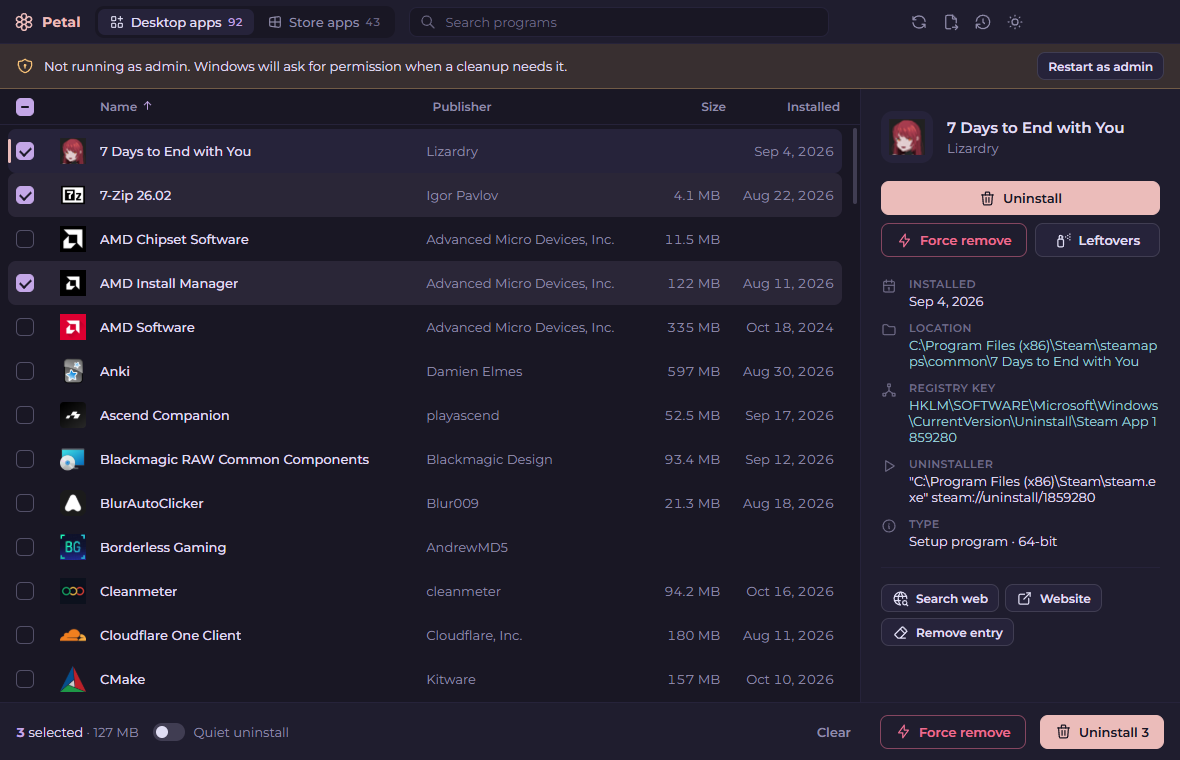
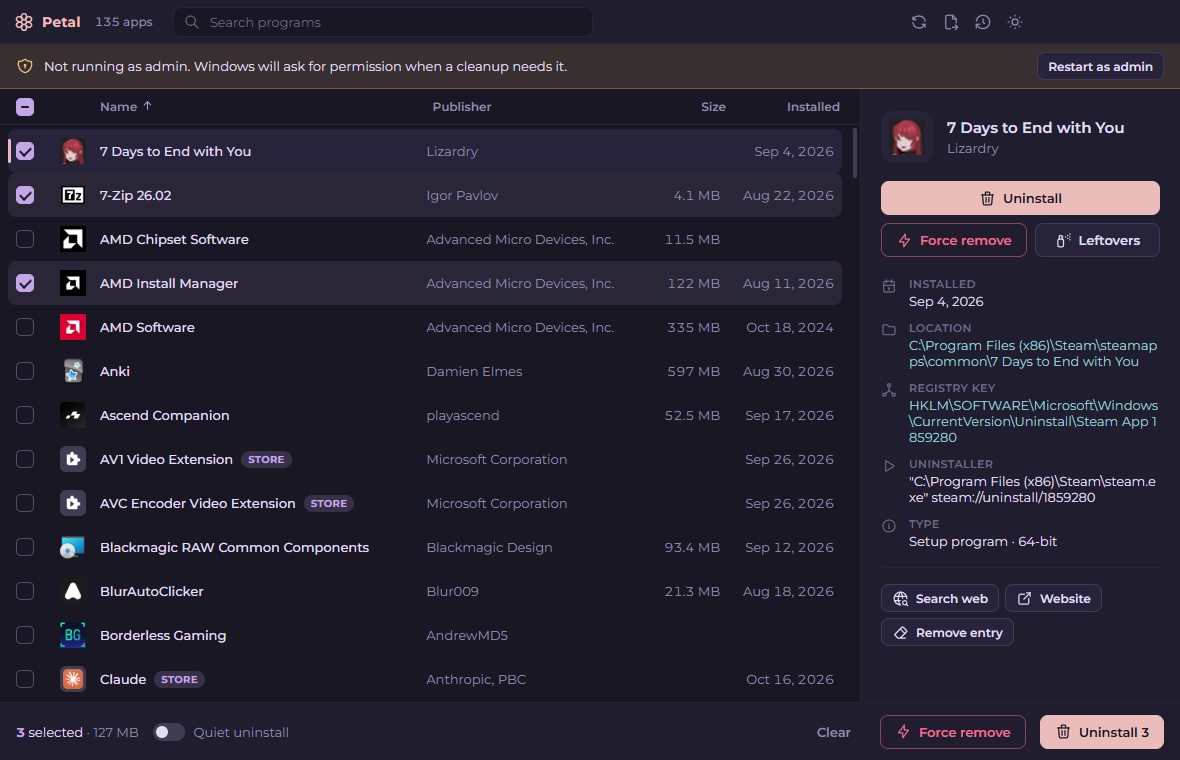
Show Store apps in the main list instead of a separate tab

diff --git a/src/app.js b/src/app.js
@@ -11,10 +11,10 @@ function hydrateIcons(root = document) {
 }
 
 const state = {
-  kind: 'desktop',
+  // Desktop programs and Store apps are scanned separately but shown as one list.
   apps: { desktop: [], store: [] },
   loaded: { desktop: false, store: false },
-  checked: { desktop: new Set(), store: new Set() },
+  checked: new Set(),
   focused: null,
   query: '',
   sort: { key: 'name', dir: 1 },
@@ -64,18 +64,22 @@ async function load(kind, { quiet = false } = {}) {
     const list = await window.petal.list(kind);
     state.apps[kind] = list;
     state.loaded[kind] = true;
-    const ids = new Set(list.map((a) => a.id));
-    for (const id of [...state.checked[kind]]) if (!ids.has(id)) state.checked[kind].delete(id);
-    $('#count-' + kind).textContent = list.length;
+    const ids = new Set(allApps().map((a) => a.id));
+    for (const id of [...state.checked]) if (!ids.has(id)) state.checked.delete(id);
+    const n = allApps().length;
+    $('#app-count').textContent = `${n} app${n === 1 ? '' : 's'}`;
   } catch (e) {
     toast('Could not read installed programs: ' + e.message, true);
   }
-  if (kind === state.kind) { $('#loading').hidden = true; render(); }
+  if (kind === 'desktop') $('#loading').hidden = true;
+  if (state.loaded.desktop) render();
 }
+const allApps = () => [...state.apps.desktop, ...state.apps.store];
+const loadAll = (opts) => Promise.all([load('desktop', opts), load('store', { quiet: true })]);
 
 function visible() {
   const q = state.query.trim().toLowerCase();
-  let list = state.apps[state.kind];
+  let list = allApps();
   if (q) list = list.filter((a) => a.name.toLowerCase().includes(q) || (a.publisher || '').toLowerCase().includes(q));
   const { key, dir } = state.sort;
   return [...list].sort((a, b) => {
@@ -94,18 +98,18 @@ const byId = (id) => state.apps.desktop.find((a) => a.id === id) || state.apps.s
 let rendered = [];
 function render() {
   rendered = visible();
-  const checked = state.checked[state.kind];
+  const checked = state.checked;
   const q = state.query.trim();
   $('#list').innerHTML = rendered.map((a, i) => `
     <div class="row${checked.has(a.id) ? ' checked' : ''}${state.focused === a.id ? ' focused' : ''}" data-i="${i}">
       <label class="cb"><input type="checkbox" ${checked.has(a.id) ? 'checked' : ''} tabindex="-1"><span></span></label>
       <span class="app-icon ${a.kind}" data-icon="${i}">${iconHtml(a)}</span>
-      <span class="cell name"><span class="t">${highlight(a.name, q)}</span>${a.isNew ? '<span class="pill new">New</span>' : ''}${a.kind === 'desktop' && !a.hasUninstaller ? '<span class="pill warn" title="No uninstaller registered">Broken</span>' : ''}</span>
+      <span class="cell name"><span class="t">${highlight(a.name, q)}</span>${a.kind === 'store' ? '<span class="pill store" title="Microsoft Store app (Windows package)">Store</span>' : ''}${a.isNew ? '<span class="pill new">New</span>' : ''}${a.kind === 'desktop' && !a.hasUninstaller ? '<span class="pill warn" title="No uninstaller registered">Broken</span>' : ''}</span>
       <span class="cell pub">${highlight(a.publisher || '', q)}</span>
       <span class="cell num">${fmtKB(a.sizeKB)}</span>
       <span class="cell num date">${fmtDate(a.installDate)}</span>
     </div>`).join('');
-  const empty = !rendered.length && state.loaded[state.kind];
+  const empty = !rendered.length && state.loaded.desktop;
   $('#empty').hidden = !empty;
   $('#empty-text').textContent = state.query ? 'Nothing matches your search.' : 'No programs found.';
   $$('.list-head .sort').forEach((s) => (s.innerHTML = ''));
@@ -138,8 +142,8 @@ async function loadIcons() {
 }
 
 function updateSelection() {
-  const checked = state.checked[state.kind];
-  const sel = state.apps[state.kind].filter((a) => checked.has(a.id));
+  const checked = state.checked;
+  const sel = allApps().filter((a) => checked.has(a.id));
   const n = sel.length;
   $('#sel-count').textContent = n;
   const kb = sel.reduce((s, a) => s + (a.sizeKB || 0), 0);
@@ -155,7 +159,7 @@ function updateSelection() {
 }
 
 function toggleCheck(a, force) {
-  const set = state.checked[a.kind];
+  const set = state.checked;
   const on = force ?? !set.has(a.id);
   on ? set.add(a.id) : set.delete(a.id);
   const idx = rendered.indexOf(a);
@@ -239,7 +243,7 @@ function openMenu(x, y, a) {
     a.urlInfo || a.helpLink ? ['external-link', 'Program website', 'site'] : null,
     '-',
     ['copy', 'Copy name', 'copy'],
-    ['check', state.checked[a.kind].has(a.id) ? 'Untick' : 'Tick', 'check', 'Space'],
+    ['check', state.checked.has(a.id) ? 'Untick' : 'Tick', 'check', 'Space'],
   ].filter(Boolean);
   m.innerHTML = items.map((it) => it === '-' ? '<hr>' :
     `<button data-act="${it[2]}" class="${it[4] || ''}" ${it[5] ? 'disabled' : ''}>${icon(it[0])}${it[1]}${it[3] ? `<kbd>${it[3]}</kbd>` : ''}</button>`).join('');
@@ -377,9 +381,8 @@ async function runJob(apps, mode) {
 }
 
 function refreshAfterJob(outcome) {
-  for (const [id, o] of outcome) if (o === 'removed') { state.checked.desktop.delete(id); state.checked.store.delete(id); }
-  load('desktop', { quiet: true });
-  if (state.loaded.store) load('store', { quiet: true });
+  for (const [id, o] of outcome) if (o === 'removed') state.checked.delete(id);
+  loadAll({ quiet: true });
 }
 
 const typeIcon = { folder: 'folder', file: 'file', key: 'key', value: 'key' };
@@ -469,12 +472,12 @@ async function removeEntry(a) {
   const res = await window.petal.clean([{ type: 'key', path: a.id }]);
   closeModal();
   if (res.cancelled) return toast('Cancelled.', true);
-  if (res.results[0]?.ok) { toast(`${a.name} removed from the list`); if (state.focused === a.id) focusApp(null); load('desktop', { quiet: true }); }
+  if (res.results[0]?.ok) { toast(`${a.name} removed from the list`); if (state.focused === a.id) focusApp(null); loadAll({ quiet: true }); }
   else toast('Could not remove the entry: ' + (res.results[0]?.error || 'unknown error'), true);
 }
 
 // ---------- events ----------
-function checkedApps() { const s = state.checked[state.kind]; return state.apps[state.kind].filter((a) => s.has(a.id)); }
+function checkedApps() { return allApps().filter((a) => state.checked.has(a.id)); }
 
 $('#list').addEventListener('click', (e) => {
   const row = e.target.closest('.row');
@@ -513,36 +516,27 @@ $$('.col[data-sort]').forEach((c) => c.addEventListener('click', () => {
   store.set('sort', state.sort);
   render();
 }));
-$$('.tab').forEach((t) => t.addEventListener('click', () => switchKind(t.dataset.kind)));
-function switchKind(kind) {
-  if (kind === state.kind) return;
-  state.kind = kind;
-  $$('.tab').forEach((t) => t.classList.toggle('active', t.dataset.kind === kind));
-  focusApp(null);
-  if (!state.loaded[kind]) { $('#list').innerHTML = ''; load(kind); } else render();
-}
 const search = $('#search');
 search.addEventListener('input', () => { state.query = search.value; search.parentElement.classList.toggle('has-text', !!search.value); render(); $('#list').scrollTop = 0; });
 $('#clear-search').addEventListener('click', () => { search.value = ''; search.dispatchEvent(new Event('input')); search.focus(); });
-$('#btn-refresh').addEventListener('click', () => load(state.kind));
+$('#btn-refresh').addEventListener('click', () => loadAll());
 $('#btn-theme').addEventListener('click', () => applyTheme(document.documentElement.dataset.theme === 'light' ? 'dark' : 'light'));
 $('#btn-backups').addEventListener('click', () => window.petal.backups());
 $('#btn-export').addEventListener('click', async () => {
-  const rows = visible().map((a) => ({ name: a.name, publisher: a.publisher, version: a.version, size: fmtKB(a.sizeKB), date: fmtDate(a.installDate) }));
-  if (await window.petal.exportHtml(rows, state.kind === 'store' ? 'Store apps' : 'Installed programs')) toast('List exported');
+  const rows = visible().map((a) => ({ name: a.name + (a.kind === 'store' ? ' (Store)' : ''), publisher: a.publisher, version: a.version, size: fmtKB(a.sizeKB), date: fmtDate(a.installDate) }));
+  if (await window.petal.exportHtml(rows, 'Installed programs')) toast('List exported');
 });
 $('#btn-admin').addEventListener('click', () => window.petal.relaunchAdmin());
 $('#btn-uninstall-sel').addEventListener('click', () => startJob(checkedApps(), 'uninstall'));
 $('#btn-force-sel').addEventListener('click', () => startJob(checkedApps(), 'force'));
-$('#btn-clear-sel').addEventListener('click', () => { state.checked[state.kind].clear(); render(); });
+$('#btn-clear-sel').addEventListener('click', () => { state.checked.clear(); render(); });
 $('#quiet').addEventListener('change', (e) => store.set('quiet', e.target.checked));
 $('#overlay').addEventListener('keydown', (e) => { if (e.key === 'Escape' && $('[data-r="0"]', $('#modal'))) $('[data-r="0"]', $('#modal')).click(); });
 
 document.addEventListener('keydown', (e) => {
   if (!$('#overlay').hidden) return;
   if (e.key === 'Escape') { closeMenu(); if (state.query) { $('#clear-search').click(); } return; }
-  if (e.key === 'F5') { e.preventDefault(); load(state.kind); return; }
-  if (e.ctrlKey && e.key === 'Tab') { e.preventDefault(); switchKind(state.kind === 'desktop' ? 'store' : 'desktop'); return; }
+  if (e.key === 'F5') { e.preventDefault(); loadAll(); return; }
   if (e.ctrlKey && e.key.toLowerCase() === 'f') { e.preventDefault(); search.focus(); search.select(); return; }
   const inSearch = document.activeElement === search;
   const cur = rendered.findIndex((a) => a.id === state.focused);
@@ -574,8 +568,7 @@ document.addEventListener('keydown', (e) => {
   state.sort = store.get('sort', state.sort);
   $('#quiet').checked = store.get('quiet', false);
   $('#admin-banner').hidden = await window.petal.isAdmin();
-  await load('desktop');
-  load('store', { quiet: true });
+  await loadAll();
   const st = await window.petal.selftest.info();
   if (st.on) { const s = document.createElement('script'); s.src = 'selftest.js'; document.body.append(s); }
 })();

diff --git a/src/styles.css b/src/styles.css
@@ -49,16 +49,7 @@ input { font: inherit; color: inherit; }
 .titlebar button, .titlebar input, .titlebar label { -webkit-app-region: no-drag; }
 .brand { display: flex; align-items: center; gap: 8px; font-weight: 700; font-size: 14px; color: var(--rose); letter-spacing: .2px; }
 .brand .i { width: 20px; height: 20px; }
-.tabs { display: flex; gap: 2px; background: var(--base); padding: 3px; border-radius: 9px; }
-.tab {
-  display: flex; align-items: center; gap: 6px; border: 0; background: none; padding: 5px 11px; border-radius: 7px;
-  color: var(--subtle); font-weight: 500; cursor: pointer; transition: background .15s, color .15s;
-}
-.tab .i { width: 16px; height: 16px; }
-.tab:hover { color: var(--text); }
-.tab.active { background: var(--overlay); color: var(--text); }
-.count { font-size: 11px; color: var(--muted); font-variant-numeric: tabular-nums; }
-.tab.active .count { color: var(--iris); }
+.app-count { font-size: 12px; color: var(--subtle); font-weight: 500; font-variant-numeric: tabular-nums; white-space: nowrap; min-width: 64px; }
 .search {
   flex: 1; max-width: 420px; display: flex; align-items: center; gap: 8px; height: 30px; padding: 0 6px 0 10px;
   background: var(--base); border: 1px solid var(--overlay); border-radius: 8px; color: var(--muted); transition: border-color .15s;
@@ -126,6 +117,7 @@ input { font: inherit; color: inherit; }
 .cell.num { text-align: right; color: var(--subtle); font-variant-numeric: tabular-nums; }
 .pill { flex: none; font-size: 10px; font-weight: 700; padding: 2px 7px; border-radius: 20px; letter-spacing: .3px; text-transform: uppercase; }
 .pill.new { background: color-mix(in srgb, var(--foam) 18%, transparent); color: var(--foam); }
+.pill.store { background: color-mix(in srgb, var(--iris) 18%, transparent); color: var(--iris); }
 .pill.warn { background: color-mix(in srgb, var(--gold) 18%, transparent); color: var(--gold); }
 .pill.high { background: color-mix(in srgb, var(--pine) 22%, transparent); color: var(--foam); }
 .pill.low { background: color-mix(in srgb, var(--gold) 16%, transparent); color: var(--gold); }

diff --git a/src/selftest.js b/src/selftest.js
@@ -13,7 +13,7 @@
     await wait(1500);
     applyTheme('dark');
     const rowsWithIcons = $$('.row img').length;
-    log('rows', $$('.row').length, 'icons', rowsWithIcons);
+    log('rows', $$('.row').length, 'icons', rowsWithIcons, 'store tags', $$('.pill.store').length, 'count label', $('#app-count').textContent);
     await t.shot('01-main-dark');
 
     const pick = rendered.filter((a) => a.installLocation).slice(0, 3);
@@ -36,7 +36,10 @@
     await t.shot('04-search');
     search.value = ''; search.dispatchEvent(new Event('input'));
 
-    // Batch confirm dialog
+    // Batch confirm dialog with a mix of desktop programs and a Store app
+    const storeApp = rendered.find((a) => a.kind === 'store');
+    toggleCheck(storeApp, true);
+    log('mixed selection', checkedApps().map((a) => a.name + ' [' + a.kind + ']'));
     $('#btn-uninstall-sel').click();
     await wait(300);
     await t.shot('05-batch-confirm');
@@ -64,9 +67,12 @@
     applyTheme('light');
     await wait(300);
     await t.shot('08-main-light');
-    switchKind('store');
+    state.checked.clear();
+    search.value = 'microsoft'; search.dispatchEvent(new Event('input'));
     await wait(1500);
+    log('search microsoft ->', rendered.length, 'store tags', $$('.pill.store').length);
     await t.shot('09-store-light');
+    search.value = ''; search.dispatchEvent(new Event('input'));
     applyTheme('dark');
     log('DONE');
   } catch (e) {

diff --git a/src/index.html b/src/index.html
@@ -10,10 +10,7 @@
 <body>
   <header class="titlebar">
     <div class="brand"><span class="i" data-i="flower"></span><span>Petal</span></div>
-    <div class="tabs" role="tablist">
-      <button class="tab active" data-kind="desktop" role="tab"><span class="i" data-i="apps"></span>Desktop apps <span class="count" id="count-desktop">0</span></button>
-      <button class="tab" data-kind="store" role="tab"><span class="i" data-i="brand-windows"></span>Store apps <span class="count" id="count-store">0</span></button>
-    </div>
+    <span class="app-count" id="app-count"></span>
     <label class="search">
       <span class="i" data-i="search"></span>
       <input id="search" type="text" placeholder="Search programs" spellcheck="false" autocomplete="off">

diff --git a/README.md b/README.md
@@ -15,13 +15,14 @@ force-remove broken ones, and clean up the files and registry keys they leave be
   App Paths, startup entries and the uninstall entry. You review everything before it is deleted.
 - **Safe by default**: files go to the Recycle Bin, every registry key is exported to a `.reg` backup first,
   and system folders are never offered. "Sure" items are ticked; "Check" items are not.
-- **Store apps**: list and remove Microsoft Store (MSIX/AppX) apps on their own tab.
+- **One list for everything**: normal programs and Microsoft Store (MSIX/AppX) apps together, with a "Store" tag on Store apps.
+  Tick a mix of both and remove them in one go.
 - **Remove entry only**: clean dead entries out of the installed programs list.
 - **Find leftovers** without uninstalling, **open install folder**, **open in Registry Editor**, **search the web**.
 - **New since last run** highlight, instant search, sortable columns, export the list to HTML.
 - Rosé Pine and Rosé Pine Dawn themes, Montserrat font, [Tabler Icons](https://tabler.io/icons).
 
-| Leftovers review | Right-click menu | Light theme |
+| Leftovers review | Right-click menu | Light theme, Store apps tagged |
 | --- | --- | --- |
 | ![Leftovers](docs/leftovers.png) | ![Menu](docs/menu.png) | ![Light](docs/light.png) |
 
@@ -42,7 +43,6 @@ or click **Restart as admin** in the banner.
 | Ctrl+A | Tick everything shown |
 | Enter / Del | Uninstall (ticked programs, or the highlighted one) |
 | Shift+Del | Force remove |
-| Ctrl+Tab | Desktop apps / Store apps |
 | F5 | Refresh |
 
 ## Building
